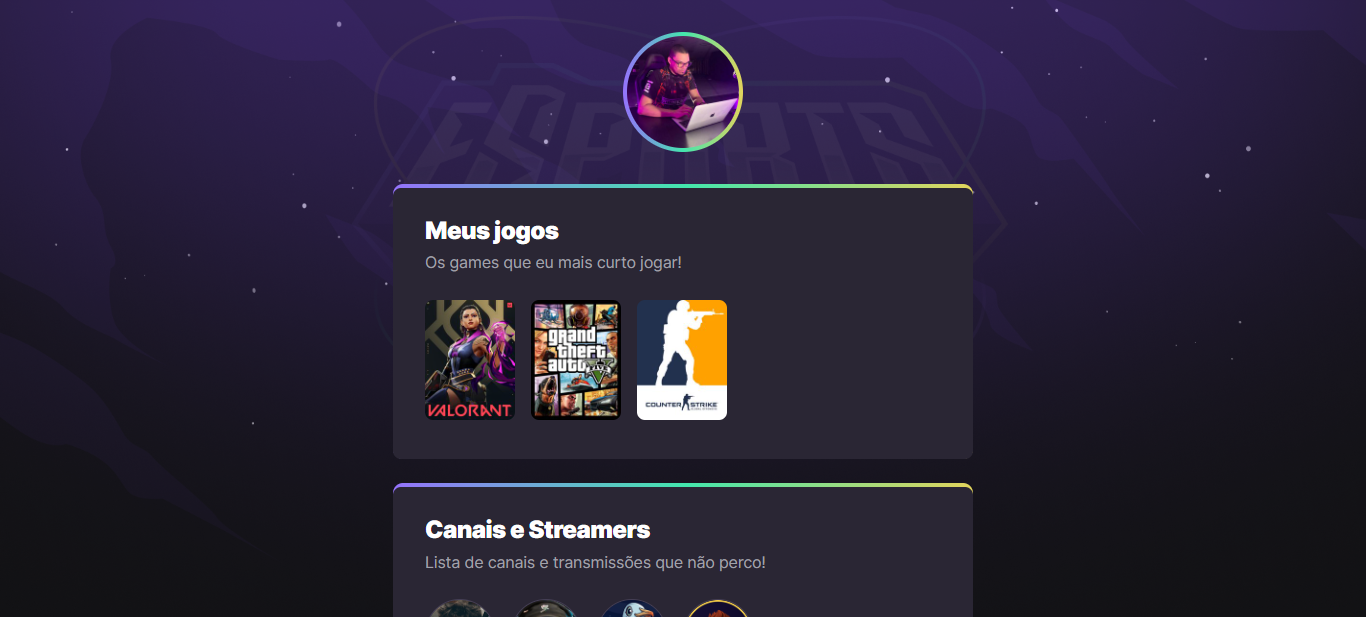
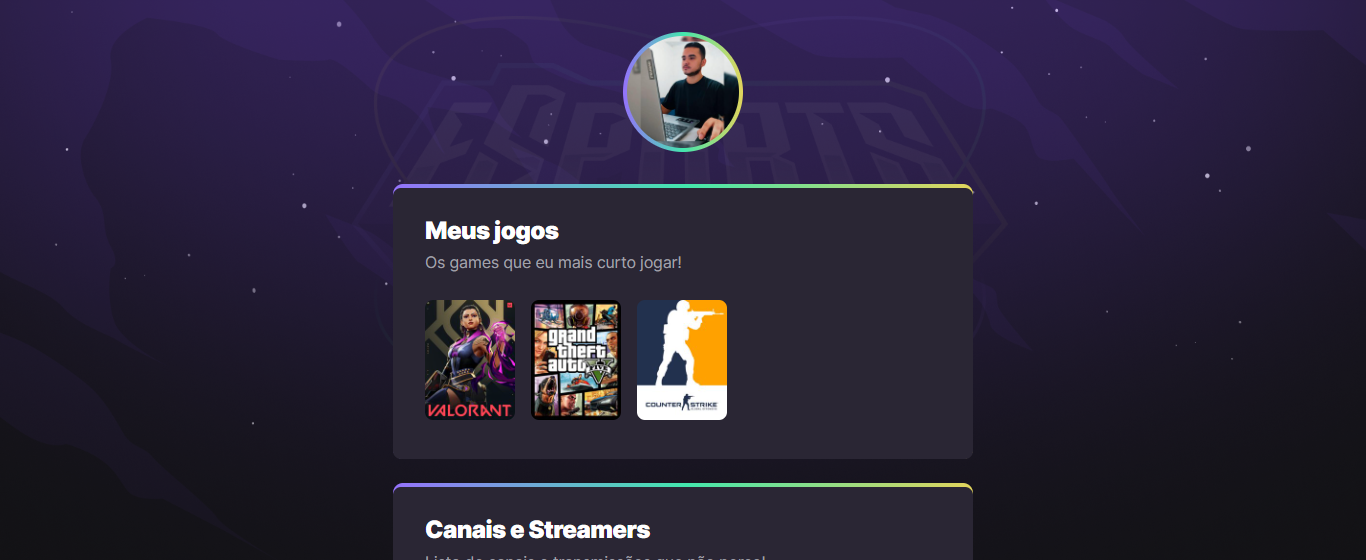
updated profile picture

Changed region(s): [[0.2767, 0.0304, 0.7072, 0.7893], [0.2767, 0.85, 0.7072, 1.0]]

diff --git a/index.html b/index.html
@@ -15,7 +15,7 @@
   <body>
     <header>
       <div>
-        <img src="https://github.com/maykbrito.png" alt="Foto Teste">
+        <img src="https://github.com/wevertonvcp.png" alt="Foto de perfil">
       </div>
     </header>
     <main>
